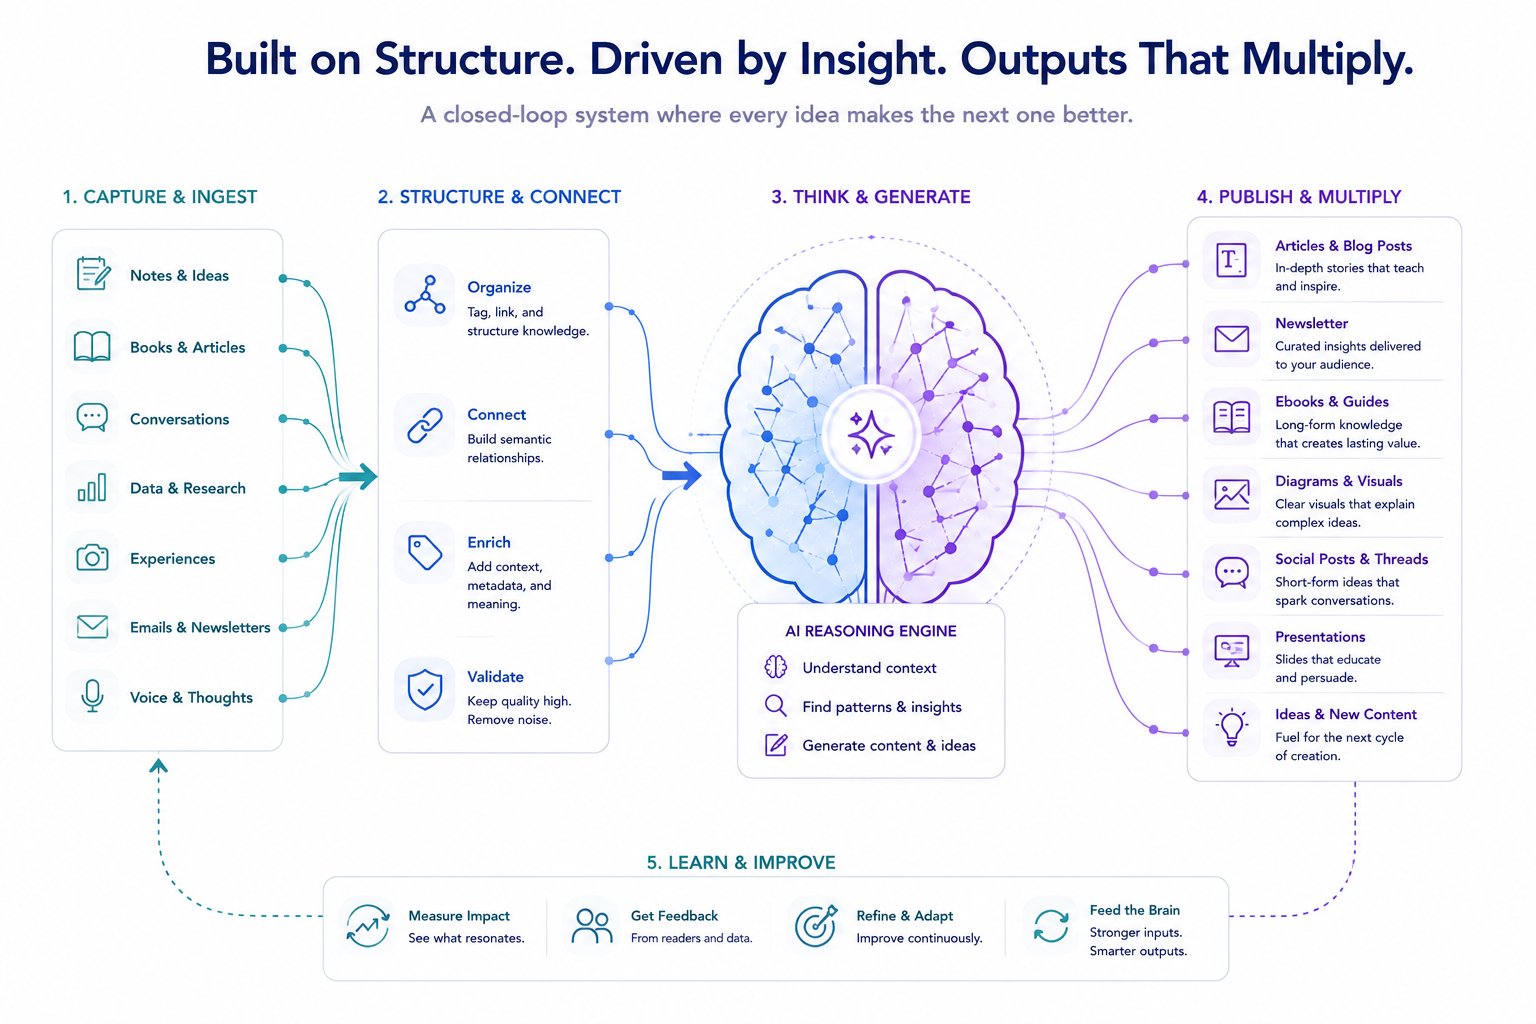
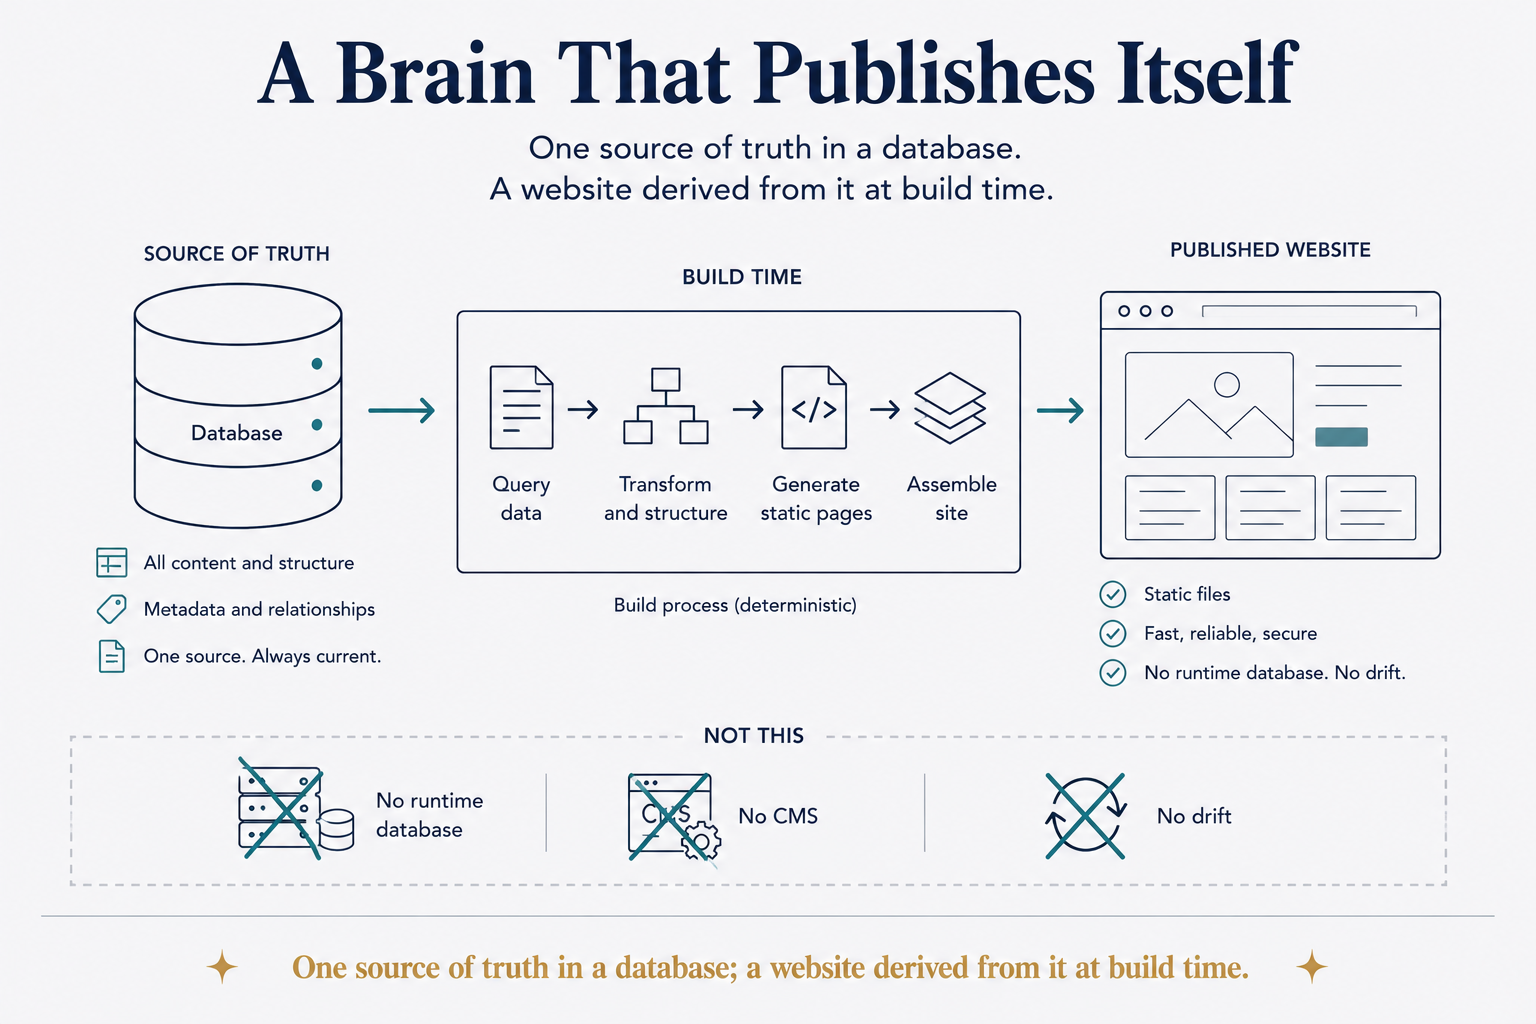
@ home: warmer, less intimidating opening — person + promise, then two paths
First-timers hit an encyclopedia menu + abstract thesis + a six-layer pyramid
before any human or payoff. New top layer (Jaco approved):
1. Warm hero -- the whiteboard photo (Jaco + a real data model = person AND
   thesis) with "I rebuilt my own life as data. This is what that gives you."
2. Two paths -- "For yourself" (B2C, blue) / "For your organisation" (B2B, gold)
   so each visitor self-selects instead of getting the whole depth at once.
3. The Structure+Data+AI+Rules formula kept, now below the human opening.

Nothing removed -- the full deep site (pyramid, principles, concepts...) moves
down as the reward for scrolling. Photo already public on jacovanderlaan.com;
whiteboard content is a generic crop-dusting demo model, no client data.

@

diff --git a/index.html b/index.html
@@ -92,21 +92,40 @@ gtag('config', 'G-P7W9B34R1Z');
 </header>
 
 <!-- HERO -->
-<div class="hero wrap">
-  <div class="eyebrow">Knowledge Management,<br class="eb-break" /> re-architected<br class="eb-break" /> for the AI era</div>
-  <h1>The magic isn't in the model. It's in the structure you give it.</h1>
-  <p class="lede">An old discipline — knowledge management — rebuilt on today's stack. Get the structure right and good output stops being luck. It becomes repeatable.</p>
+<!-- WARM HERO: person + promise -->
+<div class="hero-intro wrap">
+  <figure class="hero-photo">
+    <img src="assets/jaco-hero.jpg" alt="Jaco van der Laan at a whiteboard covered in a hand-drawn data model" loading="eager" width="1280" height="960" />
+  </figure>
+  <div class="hero-intro-copy">
+    <div class="eyebrow">Structure Beats Magic</div>
+    <h1>I rebuilt my own life as data. This is what that gives you.</h1>
+    <p class="lede">Twenty-five years of data architecture, then turned loose on my own life — photos, trips, books, health, finances. Not because I had to, but to see what happens when you take structure seriously. What I learned holds just as well for you as for an organisation: get the structure right, and good output stops being luck. It becomes repeatable.</p>
+    <p class="hero-proof">Proven on my own life — over 150,000 photos, 271 books, a decade of trips made queryable. Applied in business, from 25 years of data architecture.</p>
+  </div>
+</div>
+
+<!-- TWO PATHS: who are you? -->
+<div class="paths wrap">
+  <a class="path" href="#principles">
+    <div class="path-label">For yourself</div>
+    <h2>Your knowledge, your life, your AI</h2>
+    <p>Turn your notes, photos and data into a second brain that AI can actually use. Start with yourself — the lowest-stakes, richest place to learn what's possible.</p>
+    <span class="path-go">See the principles →</span>
+  </a>
+  <a class="path path-b2b" href="#fit">
+    <div class="path-label">For your organisation</div>
+    <h2>Data + AI that becomes reliable</h2>
+    <p>The same architecture at company scale: structure, rules and validation that make AI output trustworthy and explainable — not impressive once, but repeatable.</p>
+    <span class="path-go">For enterprises →</span>
+  </a>
+</div>
+
+<!-- The thesis, one line — kept, now below the human opening -->
+<div class="hero-formula wrap">
   <div class="formula">
     Structure <span class="op">+</span> Data <span class="op">+</span> AI <span class="op">+</span> Rules <span class="op">+</span> Skills <span class="arrow">→</span> <span class="result">Systems</span>
   </div>
-  <p class="hero-proof">Proven on my own life — over 150,000 photos, 271 books, a decade of trips made queryable. Applied in business, from 25 years of data architecture.</p>
-  <div class="cta-row">
-    <a class="btn btn-primary" href="#principles">See the principles</a>
-    <a class="btn btn-ghost" href="#use-cases">See it working</a>
-  </div>
-  <figure class="hero-figure">
-    <img src="assets/sbm-hero.svg" alt="Structure Beats Magic — the magic isn't in the model, it's in the structure you give it" loading="lazy" />
-  </figure>
 </div>
 
 <!-- UNIVERSAL PRINCIPLES -->

diff --git a/assets/site.css b/assets/site.css
@@ -88,6 +88,34 @@
     .formula .arrow{color:var(--gold);margin:0 .25rem}
     .formula .result{color:var(--gold)}
   }
+  /* ===== WARM HERO (person + promise) — added 2026-07-17 ===== */
+  .hero-intro{display:grid;grid-template-columns:minmax(0,1fr) minmax(0,1.05fr);gap:2.6rem;align-items:center;padding:4rem 0 2.4rem}
+  .hero-photo{margin:0}
+  .hero-photo img{width:100%;height:auto;display:block;border-radius:var(--radius);box-shadow:var(--shadow);border:1px solid var(--line)}
+  .hero-intro-copy .eyebrow{font-size:13px;font-weight:700;letter-spacing:.14em;text-transform:uppercase;color:var(--accent);margin:0}
+  .hero-intro-copy h1{font-size:clamp(1.9rem,3.4vw,2.9rem);line-height:1.1;letter-spacing:-.02em;margin:.6rem 0 1rem;max-width:18ch;text-wrap:balance}
+  .hero-intro-copy .lede{font-size:1.14rem;color:var(--ink-soft);max-width:52ch;margin:0 0 1rem}
+  .hero-intro-copy .hero-proof{font-size:.95rem;color:var(--ink-faint);max-width:52ch;margin:0}
+  /* ===== TWO PATHS ===== */
+  .paths{display:grid;grid-template-columns:1fr 1fr;gap:1.2rem;padding:.6rem 0 1.4rem}
+  .path{display:block;text-decoration:none;color:var(--ink);background:var(--surface);border:1px solid var(--line);
+    border-radius:var(--radius);padding:1.6rem 1.7rem;transition:border-color .15s,box-shadow .15s,transform .15s}
+  .path:hover{border-color:var(--accent);box-shadow:var(--shadow);transform:translateY(-2px)}
+  .path-b2b:hover{border-color:var(--gold)}
+  .path-label{font-size:12px;font-weight:700;letter-spacing:.1em;text-transform:uppercase;color:var(--accent)}
+  .path-b2b .path-label{color:var(--gold)}
+  .path h2{font-size:1.28rem;line-height:1.15;letter-spacing:-.01em;margin:.5rem 0 .5rem}
+  .path p{font-size:.98rem;color:var(--ink-soft);margin:0 0 1rem}
+  .path-go{font-size:.92rem;font-weight:600;color:var(--accent)}
+  .path-b2b .path-go{color:var(--gold)}
+  /* thesis one-liner, now below the human opening */
+  .hero-formula{text-align:center;padding:.4rem 0 3rem}
+  @media(max-width:820px){
+    .hero-intro{grid-template-columns:1fr;gap:1.6rem;padding:2.4rem 0 1.6rem;text-align:left}
+    .hero-photo{order:-1}
+    .paths{grid-template-columns:1fr}
+    .hero-intro-copy h1{font-size:1.8rem;max-width:100%}
+  }
   .btn{padding:.7rem 1.3rem;border-radius:10px;font-weight:600;font-size:15px;display:inline-block}
   .btn-primary{background:var(--accent);color:#fff}
   .btn-primary:hover{background:var(--accent-dk)}

diff --git a/concepts/agreement-centered-governance.html b/concepts/agreement-centered-governance.html
@@ -100,7 +100,7 @@
 <p>There's a data-model payoff hiding under the governance one: once the agreement exists as an entity, it becomes a hub. And it's a remarkably modelable entity — a start, an end, a status, the parties, the terms, often a cost, often a renewal or expiry date — the same handful of attributes whether it's an insurance policy, a gym commitment or a family arrangement. The renewal date alone earns the modeling: it's a built-in trigger, the difference between an expiry you act on and one that acts on you. Give it that shape and an astonishing amount of otherwise-loose data suddenly has something to relate back to: payments, events, correspondence, documents, renewal dates, the decisions that led to it. Data that was scattered noise becomes evidence <em>about something</em>. That's the quiet reason to model agreements even before the checking starts: they're one of the few entities almost everything else in a life can point at.</p>
 <p>And the deepest check isn't operational at all. Once agreements and their evidence are linked, a different kind of judgement becomes possible: <em>do I keep my agreements?</em> Not as a feeling but as a pattern in the record — the commitments honored, the ones that quietly lapsed, the difference between the two. That's integrity, made visible. Companies get judged this way constantly (does the vendor deliver what the contract says?); the personal brain makes the same mirror available to you — which is exactly why agreements deserve first-class status in it.</p>
     </div>
-    <div class="c-rel"><h3>Related concepts</h3><ul><li><a href="the-validation-loop.html">The Validation Loop</a></li><li><a href="rules-you-can-verify.html">Rules You Can Verify</a></li><li><a href="derived-insight.html">Derived Insight</a></li><li><a href="life-domains.html">Life Domains</a></li></ul></div>
+    <div class="c-rel"><h3>Related concepts</h3><ul><li><a href="the-validation-loop.html">The Validation Loop</a></li><li><a href="rules-you-can-verify.html">Rules You Can Verify</a></li><li><a href="derived-insight.html">Derived Insight</a></li><li><a href="life-domains.html">Life Domains</a></li></ul><h3>Related writing</h3><ul><li><a href="https://structurebeatsmagic.com/articles/almost-everything-is-an-agreement.html">Almost Everything Is an Agreement</a></li></ul></div>
   </div>
 </section>
 

diff --git a/concepts/derived-insight.html b/concepts/derived-insight.html
@@ -97,7 +97,7 @@
 <p>The highest-value data is the data you never typed. Not because typing is slow, but because you'd never have typed it at all: nobody logs "this was a work afternoon" or "this fortnight was a holiday". Those facts were always <em>implied</em> by data you already had — a coordinate, a duration, a calendar entry. They only needed a rule to notice.</p>
 <p>That's the whole enrichment layer, and it's cheaper than it sounds: a coordinate plus an interval plus one line of rule produces a fact you'd never have entered. The honest caution: a derived fact is an <em>inference</em>, and inferences are wrong sometimes — which is why the same machinery that derives it should also check it, and flag rather than assert.</p>
     </div>
-    <div class="c-rel"><h3>Related concepts</h3><ul><li><a href="claude-md-as-operating-system.html">CLAUDE.md as Operating System</a></li><li><a href="the-daily-note.html">The Daily Note</a></li><li><a href="the-missing-system.html">The Missing System</a></li><li><a href="agreement-centered-governance.html">Agreement-Centered Governance</a></li><li><a href="the-reasoning-layer.html">The Reasoning Layer</a></li><li><a href="the-validation-loop.html">The Validation Loop</a></li></ul><h3>Related writing</h3><ul><li><a href="https://structurebeatsmagic.com/articles/your-photos-are-already-a-map.html">Your Photos Are Already a Map (You Just Can't Query Them Yet)</a></li></ul></div>
+    <div class="c-rel"><h3>Related concepts</h3><ul><li><a href="claude-md-as-operating-system.html">CLAUDE.md as Operating System</a></li><li><a href="the-daily-note.html">The Daily Note</a></li><li><a href="the-missing-system.html">The Missing System</a></li><li><a href="agreement-centered-governance.html">Agreement-Centered Governance</a></li><li><a href="the-reasoning-layer.html">The Reasoning Layer</a></li><li><a href="the-validation-loop.html">The Validation Loop</a></li></ul><h3>Related writing</h3><ul><li><a href="https://structurebeatsmagic.com/articles/almost-everything-is-an-agreement.html">Almost Everything Is an Agreement</a></li><li><a href="https://structurebeatsmagic.com/articles/your-photos-are-already-a-map.html">Your Photos Are Already a Map (You Just Can't Query Them Yet)</a></li></ul></div>
   </div>
 </section>
 

diff --git a/concepts/rules-you-can-verify.html b/concepts/rules-you-can-verify.html
@@ -98,7 +98,7 @@
 <p>Verifiability is also the precondition for everything downstream. A validation loop can only check output against rules that have a pass/fail answer — you cannot check against a vibe. An independent judge can only score against a rubric of decidable criteria. The whole machinery of making AI deterministic rests on this floor: unverifiable rules aren't weak links in the chain, they're links that were never there.</p>
 <p>The discipline transfers straight from data-quality work, where it's decades old: a quality rule without a measurable condition is a slogan. "Customer records must be accurate" audits nothing; "customer email must match RFC format and be non-null" audits itself. Same move, new reader — whether the rule is read by a data steward or a language model, it only exists if it can be broken.</p>
     </div>
-    <div class="c-rel"><h3>Related concepts</h3><ul><li><a href="the-validation-loop.html">The Validation Loop</a></li><li><a href="claude-md-as-operating-system.html">CLAUDE.md as Operating System</a></li><li><a href="decision-records.html">Decision Records</a></li><li><a href="agreement-centered-governance.html">Agreement-Centered Governance</a></li><li><a href="deterministic-by-design.html">Deterministic by Design</a></li></ul></div>
+    <div class="c-rel"><h3>Related concepts</h3><ul><li><a href="the-validation-loop.html">The Validation Loop</a></li><li><a href="claude-md-as-operating-system.html">CLAUDE.md as Operating System</a></li><li><a href="decision-records.html">Decision Records</a></li><li><a href="agreement-centered-governance.html">Agreement-Centered Governance</a></li><li><a href="deterministic-by-design.html">Deterministic by Design</a></li></ul><h3>Related writing</h3><ul><li><a href="https://structurebeatsmagic.com/articles/almost-everything-is-an-agreement.html">Almost Everything Is an Agreement</a></li></ul></div>
   </div>
 </section>
 

diff --git a/concepts/the-validation-loop.html b/concepts/the-validation-loop.html
@@ -98,7 +98,7 @@
 <p>The second loop is the part almost everyone leaves out. A human doesn't review everything the machine touched — that doesn't scale and stops being review after a week. The human reviews <em>the flags</em>. And when something slips through, you don't just fix the value; you sharpen the rule that missed it. So two things improve at once: the data gets cleaner, and the checks that guard it get better. That's the difference between a checking step and a system that learns.</p>
 <p>It's also where the human stays in the loop <em>by design</em> rather than by discipline. You're not rubber-stamping output — you're steering at the one point where judgement is actually required, and encoding that judgement so it holds next time.</p>
     </div>
-    <div class="c-rel"><h3>Related concepts</h3><ul><li><a href="claude-md-as-operating-system.html">CLAUDE.md as Operating System</a></li><li><a href="derived-insight.html">Derived Insight</a></li><li>concept-model-driven-data-quality</li><li><a href="the-missing-system.html">The Missing System</a></li><li><a href="agreement-centered-governance.html">Agreement-Centered Governance</a></li><li><a href="deterministic-by-design.html">Deterministic by Design</a></li><li><a href="flattery-is-failure.html">Flattery Is Failure</a></li><li><a href="honesty-over-helpfulness.html">Honesty Over Helpfulness</a></li><li><a href="hooks-over-hopes.html">Hooks Over Hopes</a></li><li><a href="never-marks-its-own-homework.html">Never Marks Its Own Homework</a></li><li><a href="rules-you-can-verify.html">Rules You Can Verify</a></li><li><a href="the-rear-view-mirror-problem.html">The Rear-View Mirror Problem</a></li></ul><h3>Related writing</h3><ul><li><a href="https://structurebeatsmagic.com/articles/the-image-integrity-gate.html">The Image-Integrity Gate: I Caught My Own Site Faking It</a></li><li><a href="https://structurebeatsmagic.com/articles/when-something-goes-wrong.html">When Something Goes Wrong, Give It a File</a></li><li><a href="https://structurebeatsmagic.com/articles/zettelkasten-2-0.html">Zettelkasten 2.0: Let the AI Do the Labor, Keep the Judgment</a></li></ul></div>
+    <div class="c-rel"><h3>Related concepts</h3><ul><li><a href="claude-md-as-operating-system.html">CLAUDE.md as Operating System</a></li><li><a href="derived-insight.html">Derived Insight</a></li><li>concept-model-driven-data-quality</li><li><a href="the-missing-system.html">The Missing System</a></li><li><a href="agreement-centered-governance.html">Agreement-Centered Governance</a></li><li><a href="deterministic-by-design.html">Deterministic by Design</a></li><li><a href="flattery-is-failure.html">Flattery Is Failure</a></li><li><a href="honesty-over-helpfulness.html">Honesty Over Helpfulness</a></li><li><a href="hooks-over-hopes.html">Hooks Over Hopes</a></li><li><a href="never-marks-its-own-homework.html">Never Marks Its Own Homework</a></li><li><a href="rules-you-can-verify.html">Rules You Can Verify</a></li><li><a href="the-rear-view-mirror-problem.html">The Rear-View Mirror Problem</a></li></ul><h3>Related writing</h3><ul><li><a href="https://structurebeatsmagic.com/articles/almost-everything-is-an-agreement.html">Almost Everything Is an Agreement</a></li><li><a href="https://structurebeatsmagic.com/articles/the-image-integrity-gate.html">The Image-Integrity Gate: I Caught My Own Site Faking It</a></li><li><a href="https://structurebeatsmagic.com/articles/when-something-goes-wrong.html">When Something Goes Wrong, Give It a File</a></li><li><a href="https://structurebeatsmagic.com/articles/zettelkasten-2-0.html">Zettelkasten 2.0: Let the AI Do the Labor, Keep the Judgment</a></li></ul></div>
   </div>
 </section>
 